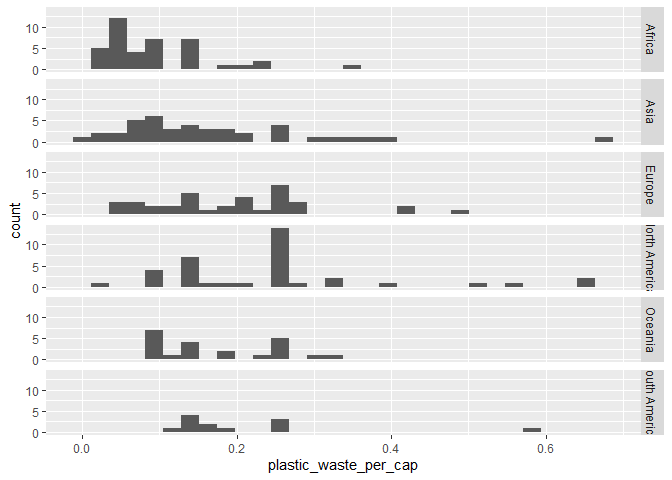
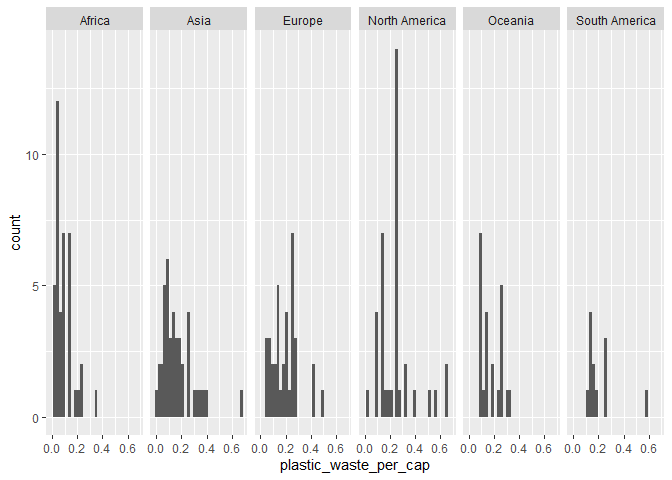
Question 2 début

diff --git a/lab-02.md b/lab-02.md
@@ -38,7 +38,7 @@ plastic_waste \<- plastic_waste %\>% filter(plastic_waste_per_cap \<
 ``` r
 ggplot(data = plastic_waste, aes(x = plastic_waste_per_cap)) +
   geom_histogram() +
-  facet_grid("continent")
+  facet_grid(. ~ continent)
 ```
 
     ## `stat_bin()` using `bins = 30`. Pick better value with `binwidth`.
@@ -48,8 +48,11 @@ ggplot(data = plastic_waste, aes(x = plastic_waste_per_cap)) +
 ### Exercise 2
 
 ``` r
-# insert code here
+ggplot(plastic_waste, aes(x = plastic_waste_per_cap, colour = continent)) +
+    geom_density()
 ```
+
+![](lab-02_files/figure-gfm/plastic-waste-density-1.png)<!-- -->
 
 Réponse à la question…
 
